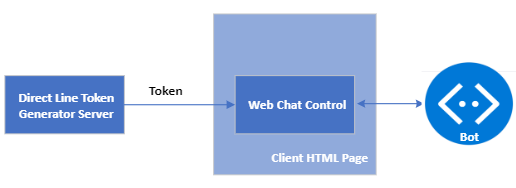
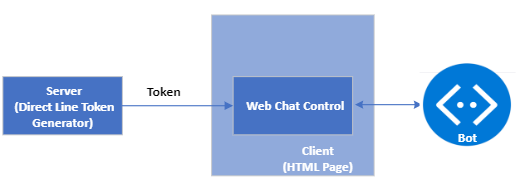
Fixed image and content

Changed region(s): [[0.0, 0.0541, 1.0, 0.973], [0.9612, 0.6757, 0.9922, 0.7297]]

diff --git a/BotFramework/webchat-direct-line/README.md b/BotFramework/webchat-direct-line/README.md
@@ -168,9 +168,9 @@ window.WebChat.renderWebChat(
 
 In this case, you have the bot running in Azure for example, and leave the messaging end point unchanged. For example `https://<your bot app registration name>.azurewebsites.net/api/messages`.
 
-### Run the server API
+### Run the server
 
-The server API is available in multiple languages. Choose one and expand the corresponding section for specific steps.
+The server API is available in multiple languages. Choose one and expand the corresponding section for specific steps. This allows the generation of the token from the Direct Line secret.
 
 <details><summary>JavaScript API</summary>
 
@@ -188,7 +188,7 @@ The server API is available in multiple languages. Choose one and expand the cor
 
 <details><summary>C# API</summary>
 
-1. Add the required secrets to the .NET Core secret manager. In a command window run the following commands:
+1. Add the required secrets to the **.NET Core secret manager**. In a command window execute the following commands:
 
     ```bash
     > cd ./server/csharp
